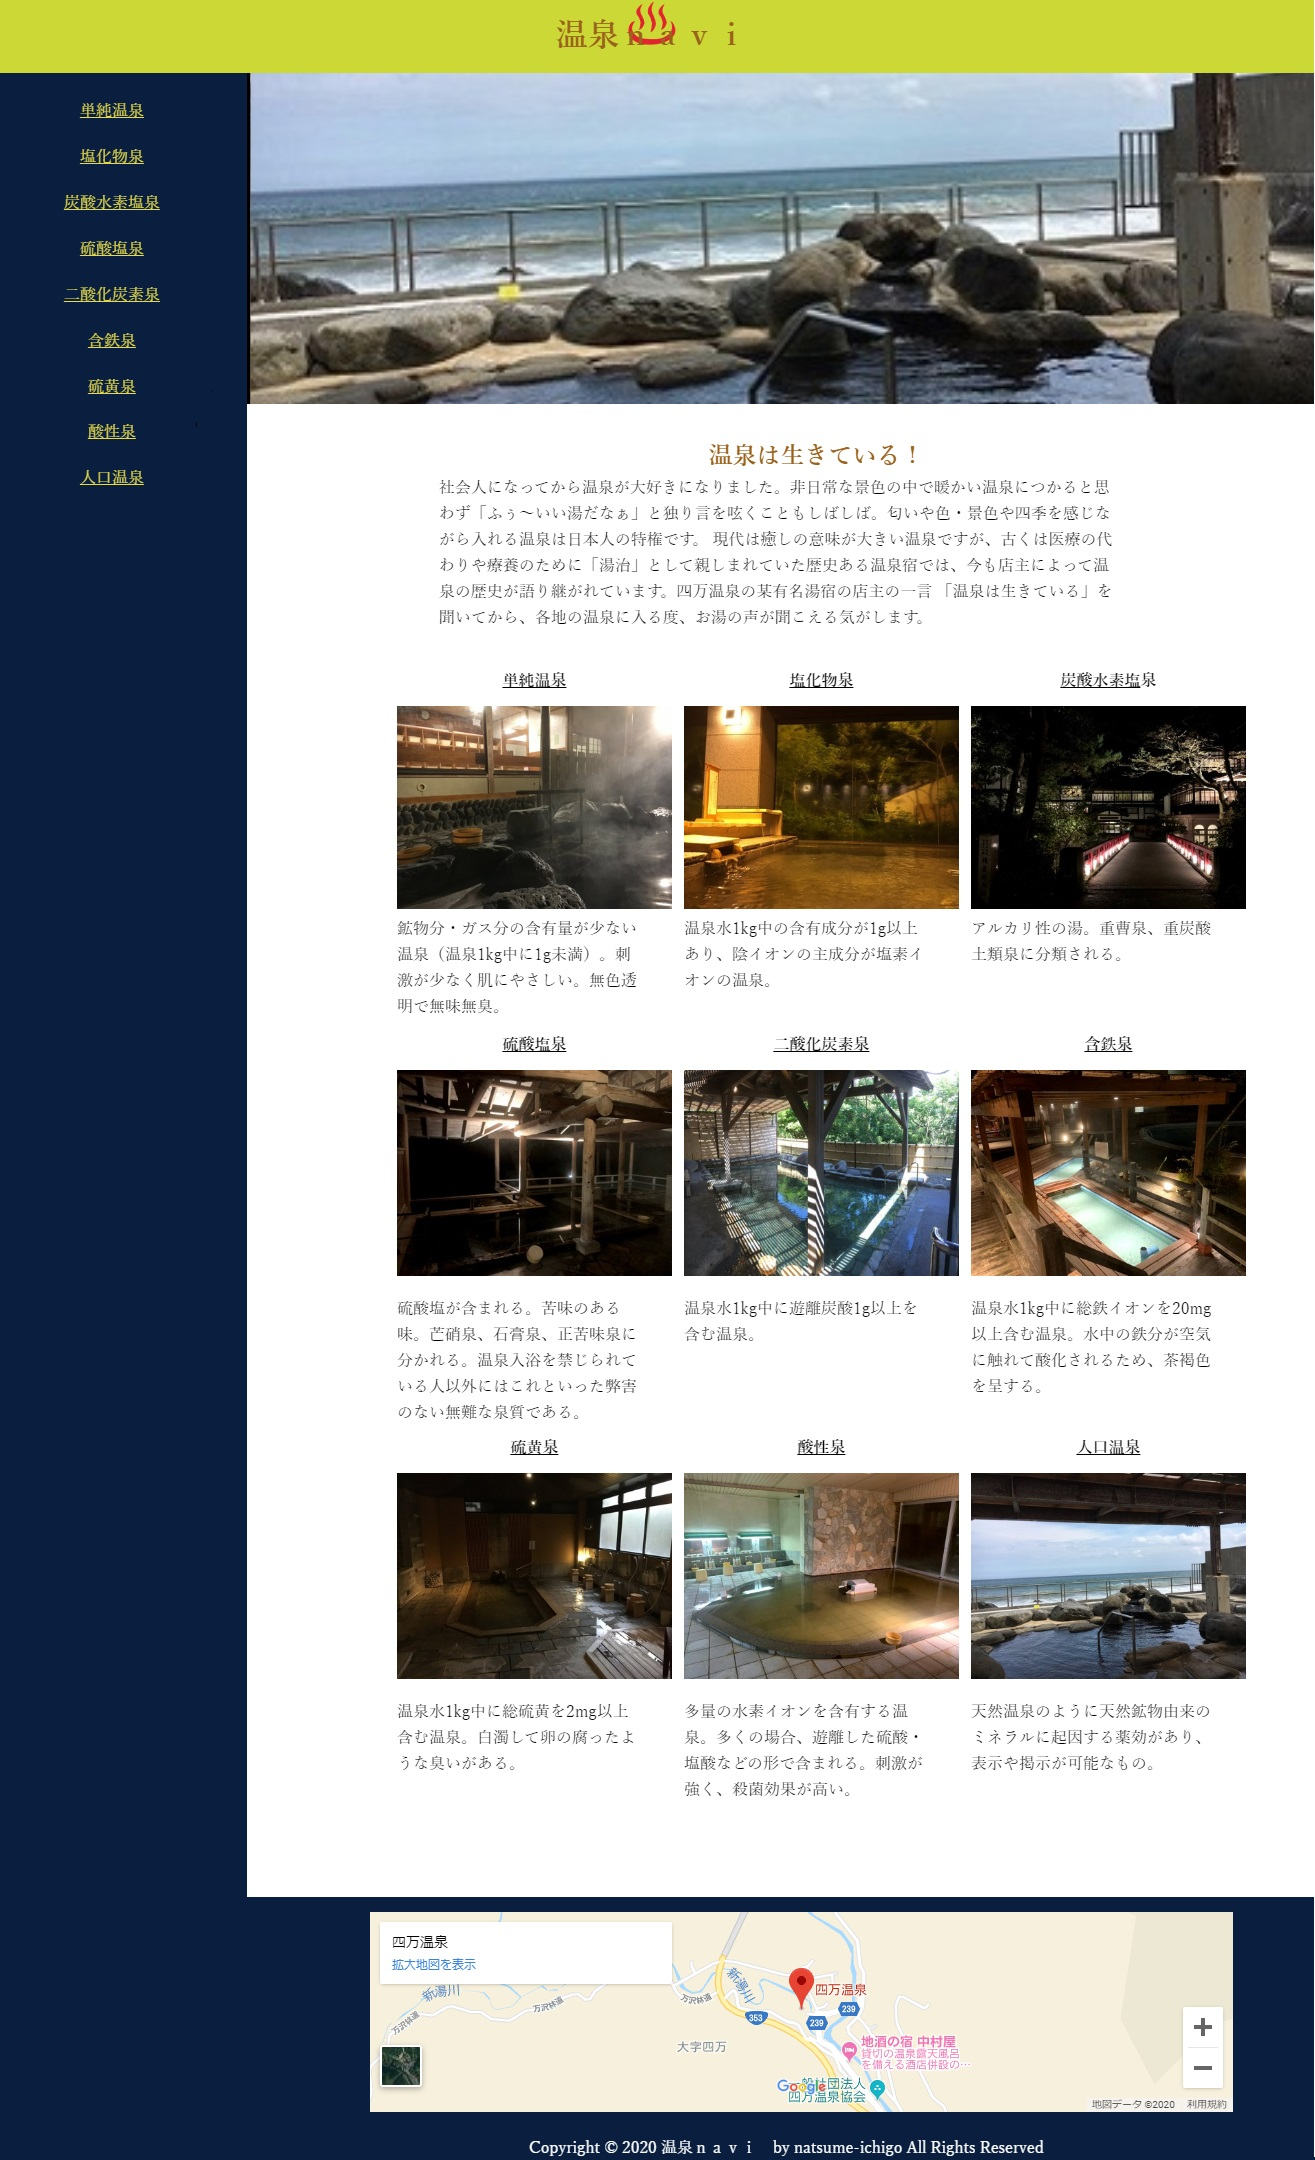
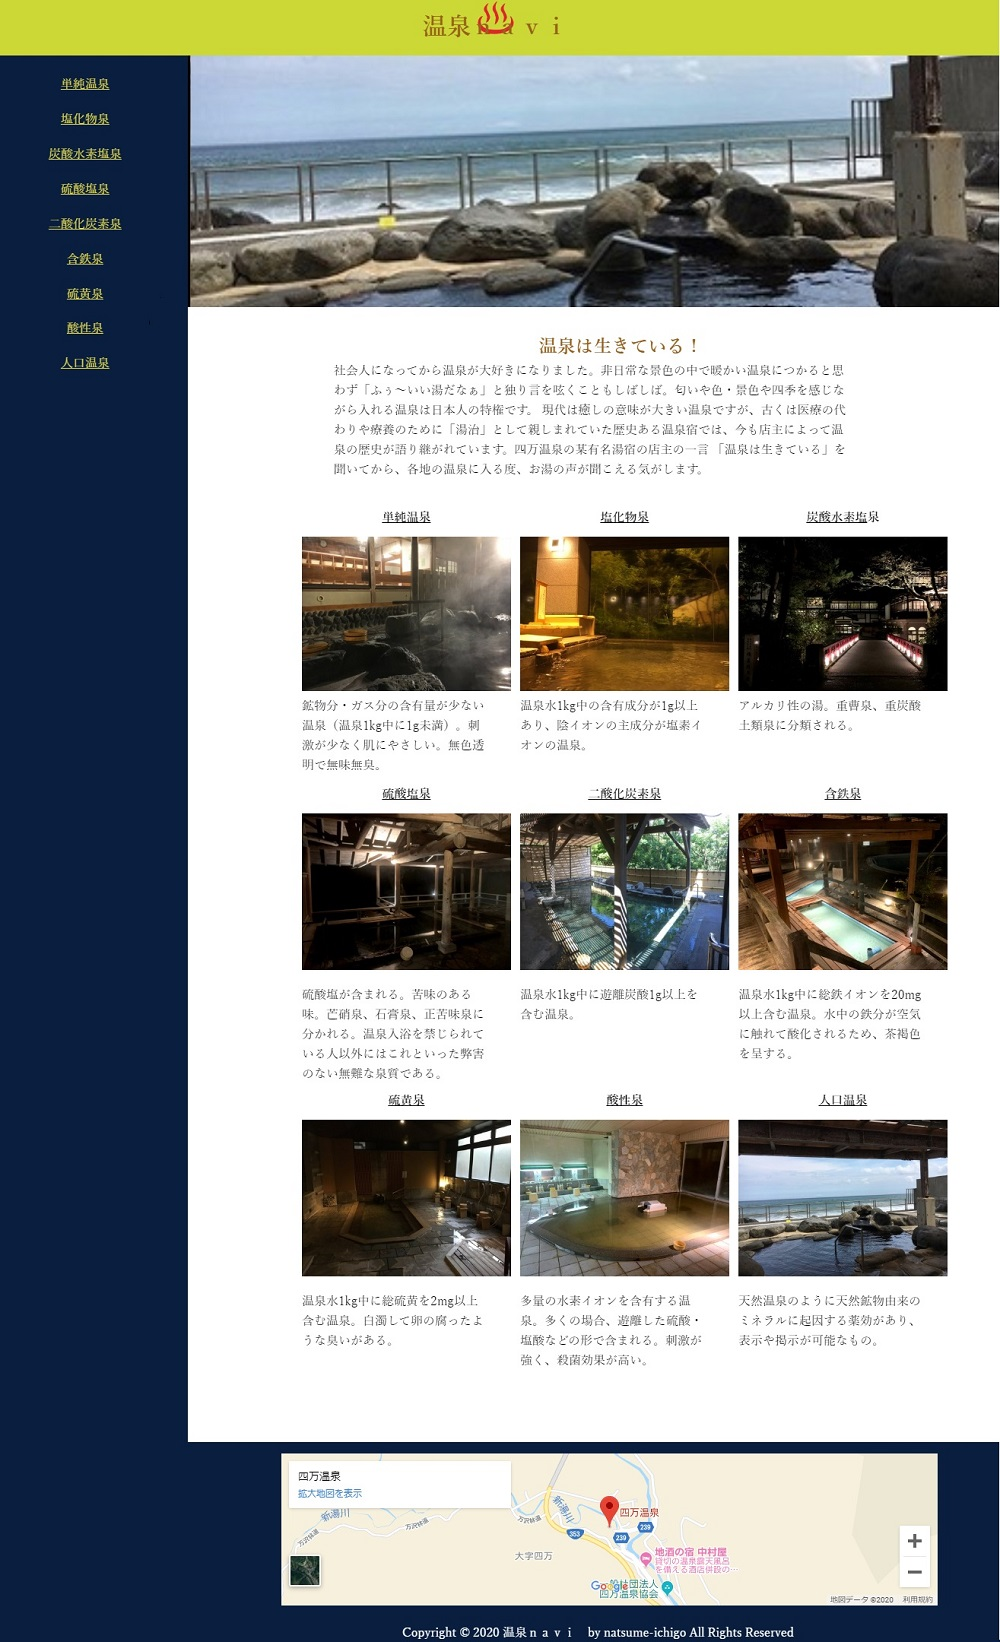
Add files via upload

diff --git a/index.html b/index.html
@@ -38,7 +38,7 @@
 				<div class="page1">
 					<a href="https://kurousagi3.github.io/Portfolio1/"><img src="image/Portfolio1.jpg" alt="イタリアン店アクセスページ"></a>
 					<p><a href="https://krousagi3.github.io/Portfolio1/">https://kurousagi3.github.io/Portfolio1/</a><br>
-						■挑戦したこと：Googleマップの埋め込み。読み込みが重くならないよう画像を減らす⇒背景のボーダーはCSS「repeating-linear-gradient」で作成	。<br>
+						■挑戦したこと：Googleマップの埋め込み。読み込みが重くならないよう画像を減らす⇒背景のボーダーはCSS「repeating-linear-gradient」で作成。<br>
 						■作業時間：コーディングのみ約4時間<br>
 						■その他：初めてのコーディングでタグを調べながらの作業で時間がかかったが、主に「display」や「position」について学ぶことができた。
 					</p>
@@ -65,21 +65,22 @@
 				<div class="page4">
 					<a href="https://kurousagi3.github.io/Portfolio3/"><img src="image/Portfolio4.jpg" alt="温泉naviページ"></a>
 					<p><a href="https://kurousagi3.github.io/Portfolio3/">https://kurousagi3.github.io/Portfolio3/</a><br>
-						■挑戦したこと：ｃｓｓファイル１つでのレスポンシブ対応、2カラム<br>
+						■挑戦したこと：ｃｓｓファイル１つでのレスポンシブ対応、2カラム(左固定)<br>
 						■作業時間：デザイン＆コーディング：約4時間<br>
 						■その他：	CSSアニメーションと左のナビレスポンシブサイトのドロワーメニューなど、枠組みを意識しました。また、今回はＣＳＳファイル１つで「@media screen」を使用し、モバイルファーストで作成。
 					</p>					
 				</div>
-				<h3>個人ブログ</h3>
-				<div id="blog">
-					<a href="https://kurousagi3.github.io/Blog/#"><img src="image/blog2.jpg" alt="個人ブログ"></a>
-					<p><a href="https://kurousagi3.github.io/Blog/">https://kurousagi3.github.io/Blog/</a><br>
-						■挑戦したこと：ＪＳの日本地図(※Git hub以降後、現在はエラーで表示されません)<br>
-						■作業時間：デザイン＆コーディング※画像編集含む：約15時間<br>
-						■その他：「Taget」でページ中央にリンク集を表示。（※リンク先記事は現在サイト移行中のため表示されません）
-					</p>
-				</div>
 			</div>
+			<h2>個人ブログ</h2>
+			<div id="blog">
+				<a href="https://kurousagi3.github.io/Blog/#"><img src="image/blog2.jpg" alt="個人ブログ"></a>
+				<p><a href="https://kurousagi3.github.io/Blog/">https://kurousagi3.github.io/Blog/</a><br>
+					■挑戦したこと：ＪＳの日本地図(※Git hub以降後、現在はエラーで表示されません)<br>
+					■作業時間：デザイン＆コーディング※画像編集含む：約15時間<br>
+					■その他：「Taget」でページ中央にリンク集を表示。（※リンク先記事は現在サイト移行中のため表示されません）
+				</p>
+			</div>
+
 			
 			<div id="profile">
 				<h2>プロフィール</h2>

diff --git a/css/desktop.css b/css/desktop.css
@@ -27,9 +27,8 @@ p{
 	width: 80%;
 	text-align: left;
 	padding: 10px 5px;
-	word-wrap: break-word;
+	word-break: normal;
 }
-
 .nav-unshown{
 	display: none;
 }	
@@ -47,9 +46,13 @@ main{
 	padding-top: 30px;
 	width: 70%;
 }	
-.page1,.page2,.page3,.page4,#blog{
+.page1,.page2,.page3,.page4{
 	margin: 30px 0 40px;
 	display: flex;
+}
+.page1 img,.page2 img,.page3 img,.page4 img,#blog img{
+	margin: 5px;
+	width: 90%;
 }
 .page1 p,.page2 p,.page3 p,.page4 p,#blog p{
 	background-color: #f0f5c3;
@@ -57,8 +60,13 @@ main{
 	margin-top: 0;
 	margin-left: 10px;
 	padding: 20px;
-	word-wrap: break-word;
+	word-break:break-all;
 }
+#blog{
+	display: flex;
+	margin: 20px auto;
+	width: 70%;
+}	
 #profile{
 	width:70%;
 	margin-top: 10px;

diff --git a/css/style.css b/css/style.css
@@ -110,7 +110,7 @@ h3{
 	width: 30%;
 }
 #Portfoli{
-	margin: 50px auto;
+	margin: 50px auto 30px;
 }
 #Portfoli p{
 	text-align: left;
@@ -118,8 +118,9 @@ h3{
 	padding: 15px;
 	word-wrap: break-word;
 }
-.page1 img,.page2 img,.page3 img,.page4 img{
+.page1 img,.page2 img,.page3 img,.page4 img,#blog img{
 	margin: 5px;
+	width: 90%;
 }
 .page1,.page2,.page,.page4 {
 	width: 90%;
@@ -130,11 +131,11 @@ h3{
 	background-color: #cdf7e5de;
 
 }
-#blog{
+#blog p{
 	width: 90%;
-	margin-top: 10px;
+	padding: 10px 5px;
 	margin-bottom: 10px;
-	background-color: #cdf7e5de;
+	background-color:#fbd7eab5;
 }
 #blog p{
 	text-align:left;
